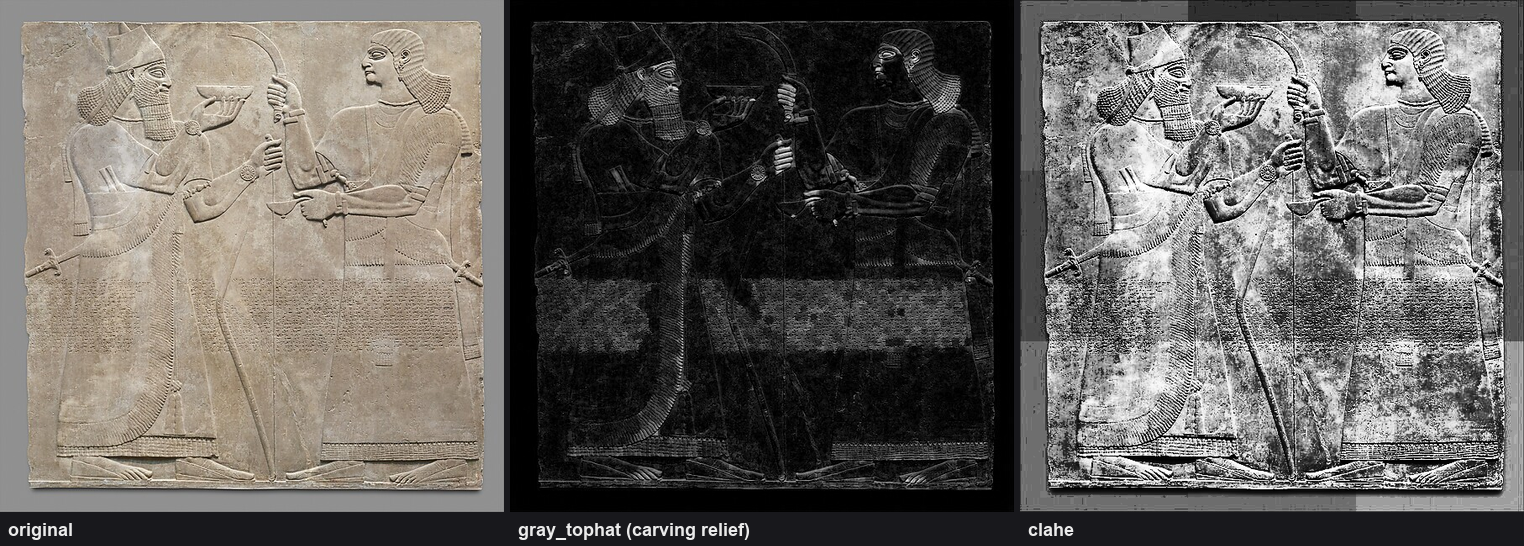
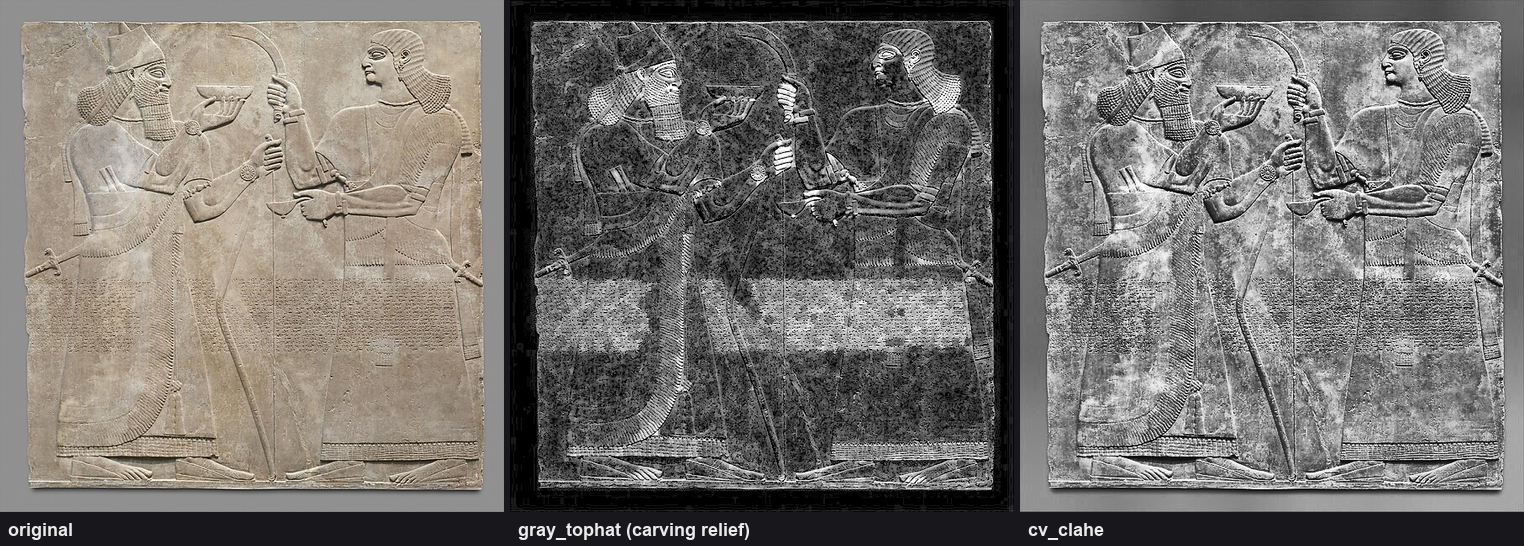
auto: fullseye_overview_qiita_ja.md 編集前 (2026-08-30 16:23)

diff --git a/tools/gen_academic_gallery.py b/tools/gen_academic_gallery.py
@@ -561,7 +561,7 @@ def rec_flowdir(col):
 
 def rec_relief(col):
     g = gray(col)
-    th = norm01(ap(g, "gray_tophat", 0.6, 0.5))
+    th = norm01(ap(g, "gray_tophat", 0.6, 0.5)) ** 0.5  # gamma for display
     c = ap(g, "cv_clahe", 0.6, 0.5)
     return ([("original", col), ("gray_tophat (carving relief)", th), ("cv_clahe", c)],
             ["rgb1_to_gray", "gray_tophat", "cv_clahe"])

diff --git a/docs/articles/assets/_academic_gallery_snippet.md b/docs/articles/assets/_academic_gallery_snippet.md
@@ -1,6 +1,11 @@
 <!-- 記事貼り付け用スニペット: 学問分野横断ギャラリー (gen_academic_gallery.py) -->
 <!-- 画像はサムネ(720px JPG)。フル解像度は _thumb を外した .png -->
 
+## 古生物学
+
+![paleo_ammonite_real](https://raw.githubusercontent.com/furuse-kazufumi/fullseye/master/docs/articles/assets/academic_paleo_ammonite_real_thumb.jpg)
+*アンモナイト化石(Smithsonian CC0)の螺旋を canny で抽出(op: `rgb1_to_gray`, `canny`, `overlay_mask`)。素材: NMNH - Education & Outreach — CC0 (Smithsonian Open Access)([出典](http://n2t.net/ark:/65665/34afa6692-b3f9-408d-90dc-cc53097171b6))*
+
 ## 宇宙
 
 ![space_carina](https://raw.githubusercontent.com/furuse-kazufumi/fullseye/master/docs/articles/assets/academic_space_carina_thumb.jpg)
@@ -11,3 +16,26 @@
 
 ![space_galaxy](https://raw.githubusercontent.com/furuse-kazufumi/fullseye/master/docs/articles/assets/academic_space_galaxy_thumb.jpg)
 *渦巻銀河の周波数構造を cx_fft スペクトルで可視化(op: `rgb1_to_gray`, `cv_clahe`, `cx_fft`, `cx_magnitude`)。素材: GSFC — Public domain (NASA)([出典](https://images.nasa.gov/details/hubble-sees-a-galactic-sunflower_21136469209_o))*
+
+## 生物学
+
+![bio_cells](https://raw.githubusercontent.com/furuse-kazufumi/fullseye/master/docs/articles/assets/academic_bio_cells_thumb.jpg)
+*HT29 細胞蛍光顕微鏡像(BBBC001)を otsu 分割 -> ラベル彩色 -> count_obj で計数 検出数 = 327(count_obj = 342)(op: `rgb1_to_gray`, `segment_objects(otsu)`, `count_obj`, `colorize_labels`)。素材: Broad Bioimage Benchmark Collection — CC-BY 3.0 (Broad Bioimage Benchmark Collection; Ljosa et al., Nature Methods 2012)([出典](https://bbbc.broadinstitute.org/BBBC001))*
+
+## 考古学
+
+![arch_amphora](https://raw.githubusercontent.com/furuse-kazufumi/fullseye/master/docs/articles/assets/academic_arch_amphora_thumb.jpg)
+*土器シルエットを楕円フーリエ記述子(EFD)で形状復元(2/8/32 高調波)(op: `rgb1_to_gray`, `otsu`, `fill_up`, `segment_objects`, `fourierdesc.elliptic_fourier`, `fourierdesc.reconstruct`)。素材: The Metropolitan Museum of Art — CC0 (The Met Open Access)([出典](https://www.metmuseum.org/art/collection/search/254896))*
+
+![arch_relief](https://raw.githubusercontent.com/furuse-kazufumi/fullseye/master/docs/articles/assets/academic_arch_relief_thumb.jpg)
+*石碑レリーフの彫刻を gray_tophat で浮き彫り強調(op: `rgb1_to_gray`, `gray_tophat`, `cv_clahe`)。素材: The Metropolitan Museum of Art — CC0 (The Met Open Access)([出典](https://www.metmuseum.org/art/collection/search/322611))*
+
+## 地質学
+
+![geo_earth](https://raw.githubusercontent.com/furuse-kazufumi/fullseye/master/docs/articles/assets/academic_geo_earth_thumb.jpg)
+*衛星画像の岩相を decorrelation stretch(リモートセンシング定番)で強調(op: `principal_comp`, `rgb1_to_gray`, `cv_clahe`)。素材: JSC — Public domain (NASA)([出典](https://images.nasa.gov/details/SL2-04-018))*
+
+## 気象学
+
+![met_hurricane](https://raw.githubusercontent.com/furuse-kazufumi/fullseye/master/docs/articles/assets/academic_met_hurricane_thumb.jpg)
+*ハリケーンの渦構造を sobel_dir 勾配方向ホイールで可視化(op: `rgb1_to_gray`, `cv_clahe`, `sobel_amp`, `sobel_dir`, `colorize_flow`)。素材: JSC — Public domain (NASA)([出典](https://images.nasa.gov/details/iss056e162187))*

diff --git a/docs/articles/assets/ACADEMIC_ATTRIBUTION.md b/docs/articles/assets/ACADEMIC_ATTRIBUTION.md
@@ -6,6 +6,12 @@
 
 | 画像 | 分野 | 素材 | AI 生成 | 出典 / ライセンス | 使用 op |
 |---|---|---|---|---|---|
+| `academic_arch_amphora.png` | 考古学 | Terracotta amphora (jar) | No | [The Metropolitan Museum of Art](https://www.metmuseum.org/art/collection/search/254896) — CC0 (The Met Open Access) | rgb1_to_gray, otsu, fill_up, segment_objects, fourierdesc.elliptic_fourier, fourierdesc.reconstruct |
+| `academic_arch_relief.png` | 考古学 | Relief panel | No | [The Metropolitan Museum of Art](https://www.metmuseum.org/art/collection/search/322611) — CC0 (The Met Open Access) | rgb1_to_gray, gray_tophat, cv_clahe |
+| `academic_bio_cells.png` | 生物学 | BBBC001 human HT29 colon-cancer cells (AS_09125_050118150001 | No | [Broad Bioimage Benchmark Collection](https://bbbc.broadinstitute.org/BBBC001) — CC-BY 3.0 (Broad Bioimage Benchmark Collection; Ljosa et al., Nature Methods 2012) | rgb1_to_gray, segment_objects(otsu), count_obj, colorize_labels |
+| `academic_geo_earth.png` | 地質学 | Lake Powell, Colorado River, Utah and Grand Canyon, Arizona | No | [JSC](https://images.nasa.gov/details/SL2-04-018) — Public domain (NASA) | principal_comp, rgb1_to_gray, cv_clahe |
+| `academic_met_hurricane.png` | 気象学 | iss056e162187 | No | [JSC](https://images.nasa.gov/details/iss056e162187) — Public domain (NASA) | rgb1_to_gray, cv_clahe, sobel_amp, sobel_dir, colorize_flow |
+| `academic_paleo_ammonite_real.png` | 古生物学 | Ammonite | No | [NMNH - Education & Outreach](http://n2t.net/ark:/65665/34afa6692-b3f9-408d-90dc-cc53097171b6) — CC0 (Smithsonian Open Access) | rgb1_to_gray, canny, overlay_mask |
 | `academic_space_carina.png` | 宇宙 | James Webb Space Telescope NIRCam Image of the “Cosmic Cliff | No | [STScI (Webb)](https://images.nasa.gov/details/carina_nebula) — Public domain (NASA) | rgb1_to_gray, cv_clahe, sk_frangi |
 | `academic_space_galaxy.png` | 宇宙 | A galactic sunflower | No | [GSFC](https://images.nasa.gov/details/hubble-sees-a-galactic-sunflower_21136469209_o) — Public domain (NASA) | rgb1_to_gray, cv_clahe, cx_fft, cx_magnitude |
 | `academic_space_mars.png` | 宇宙 | The Active Dunes of Nili Patera | No | [NASA/JPL-Caltech/Univ. of Arizona](https://images.nasa.gov/details/PIA18244) — Public domain (NASA) | rgb1_to_gray, std_filter, texture_laws |
